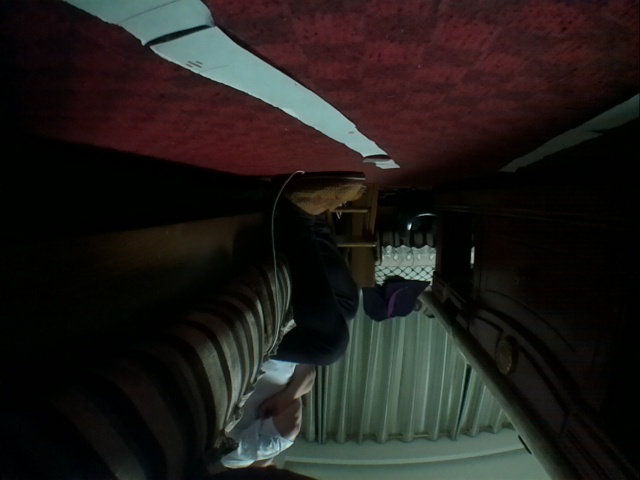
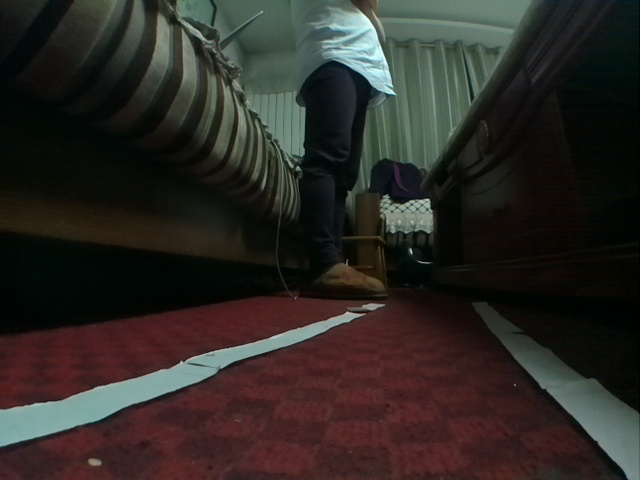
debug

diff --git a/lane/laneline_coord_bku.py b/lane/laneline_coord_bku.py
@@ -1,5 +1,5 @@
 import cv2
-import urllib2
+import urllib.request as request
 import numpy as np
 import sys
 import matplotlib.pyplot as plt
@@ -73,20 +73,20 @@ initParams = [
 refPos = [50, 180] # The position of the top-center of chess-board on the ground in img_t
     
 def imageReadFromraspberryPi(hoststr):
-    stream=urllib2.urlopen(hoststr)
-    bytes=''
+    stream=request.urlopen(hoststr)
+    bytes=b''
     while True:
         bytes+=stream.read(1024)
-        a = bytes.find('\xff\xd8')
-        b = bytes.find('\xff\xd9')
+        a = bytes.find(b'\xff\xd8')
+        b = bytes.find(b'\xff\xd9')
         if a!=-1 and b!=-1:
             break
         
     jpg = bytes[a:b+2]
     bytes= bytes[b+2:]
     img = cv2.imdecode(np.fromstring(jpg, dtype=np.uint8),flags=1)
-    # flipped = cv2.flip(img, 0)
-    return img
+    flipped = cv2.flip(img, 0)
+    return flipped
 
 
 def perspectTransform(img, M_trans):

diff --git a/raspi_main.py b/raspi_main.py
@@ -11,12 +11,12 @@ if __name__ == "__main__":
     print("Create TCP Server thread to receive params stream")
     paramsServer = SocketServer().TCPServer(config.raspi_ip, config.paras_port, ParamsStreamHandler)
 
-    # create a client for video transfer
+    # create a client for video stream transmission
     print("Create TCP Client thread to send video stream")
     camera = Camera()
     videoClient = SocketClient().TCPClient(config.compu_ip, config.video_port)
 
-    # # create a client for ultrasound sensor transfer
+    # # create a client for ultrasound sensor data transmission
     # ultrasound = Ultrasound()
     # ultraClient = SocketClient().TCPClient(config.compu_ip, config.ultra_port)
 

diff --git a/config/config.py b/config/config.py
@@ -3,4 +3,4 @@ paras_port = 8000
 video_port = 8000
 ultra_port = 8002
 raspi_ip = '192.168.1.111'
-compu_ip = '192.168.1.103'
+compu_ip = '192.168.1.102'

diff --git a/lane/laneline_coord.py b/lane/laneline_coord.py
@@ -1,5 +1,4 @@
 import cv2
-import urllib.request
 import numpy as np
 import sys
 import matplotlib.pyplot as plt
